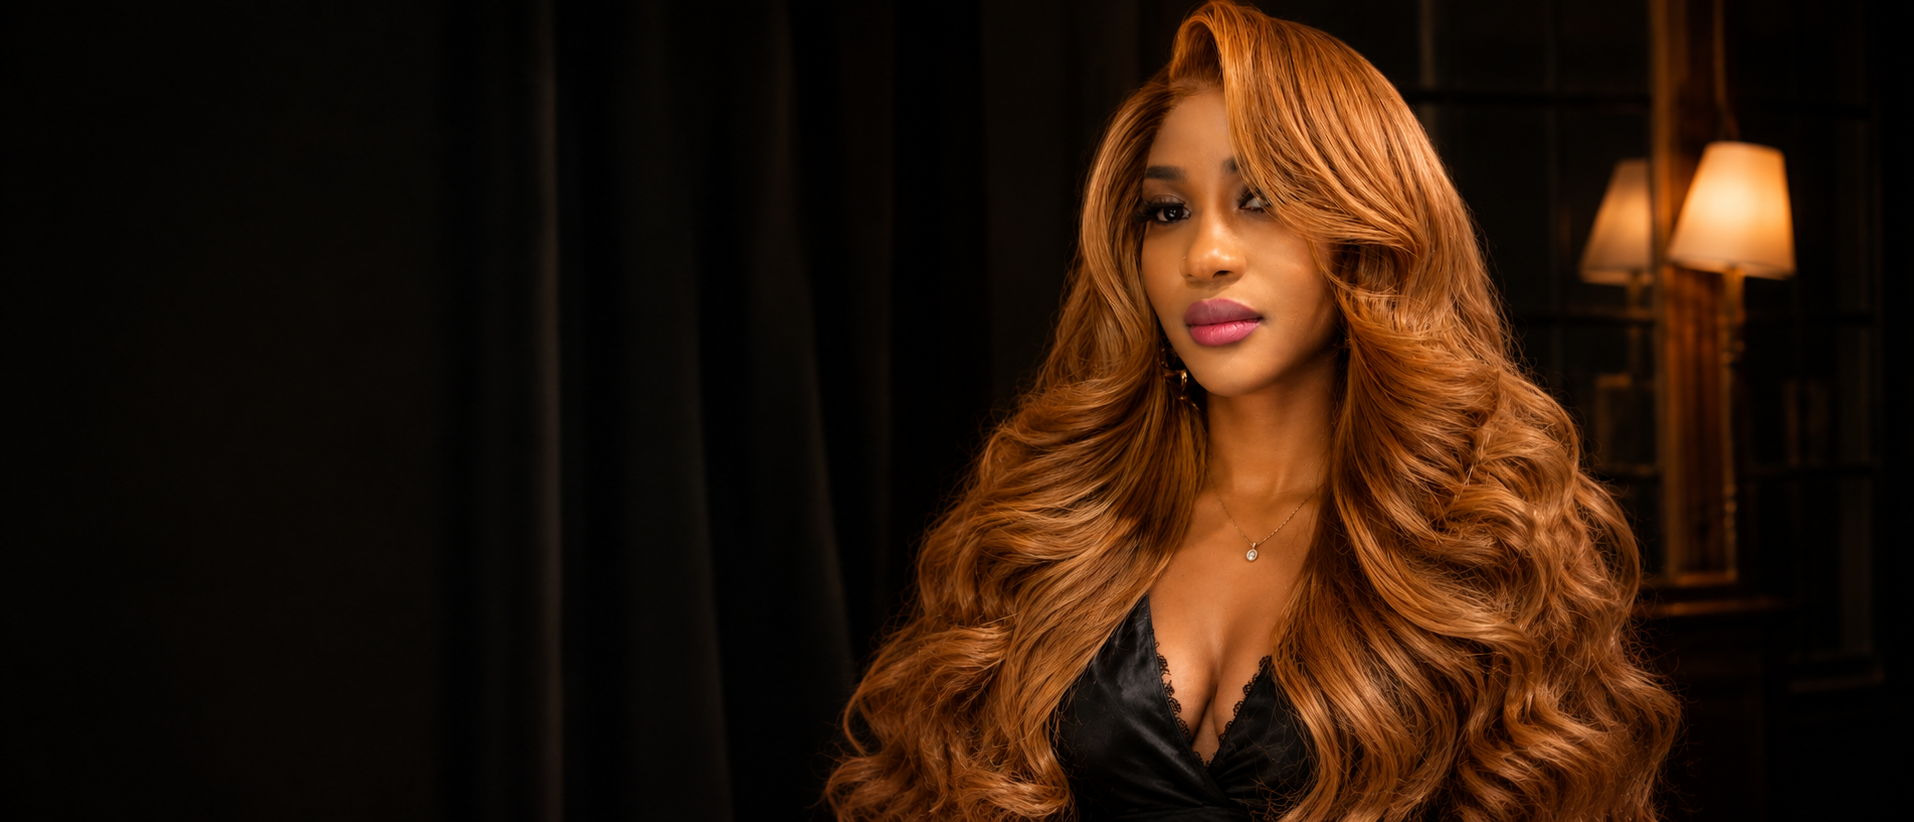
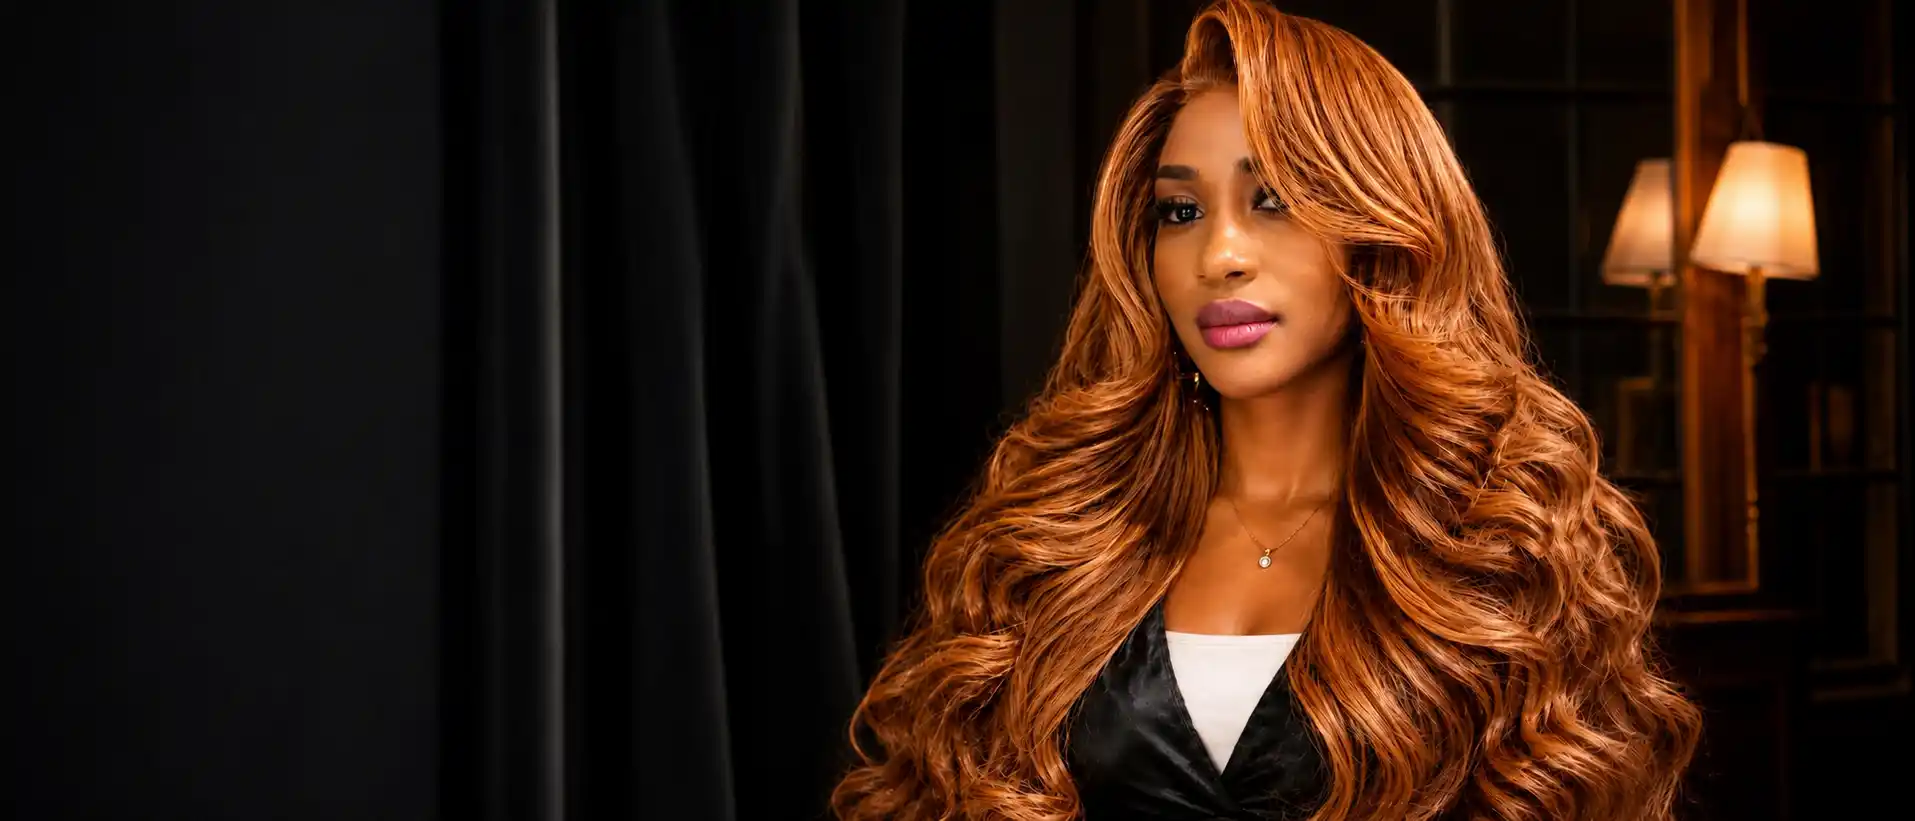
range

diff --git a/assets/css/shop.css b/assets/css/shop.css
@@ -1060,3 +1060,33 @@
 .product-modal__add-to-cart {
   flex: 1;
 }
+
+.hero__scroll-btn {
+  display: flex;
+  align-items: center;
+  justify-content: center;
+  width: 44px;
+  height: 44px;
+  margin-top: var(--space-md);
+  border: 1px solid var(--color-gold);
+  border-radius: 50%;
+  color: var(--color-gold);
+  background: transparent;
+  cursor: pointer;
+  animation: bounce-down 1.8s ease-in-out infinite;
+}
+
+.hero__scroll-btn:hover {
+  background: var(--color-gold);
+  color: #1a1a1a;
+}
+
+.hero__scroll-icon {
+  width: 20px;
+  height: 20px;
+}
+
+@keyframes bounce-down {
+  0%, 100% { transform: translateY(0); }
+  50% { transform: translateY(8px); }
+}

diff --git a/shop.html b/shop.html
@@ -32,27 +32,6 @@
        (assets/css/home.css), only the copy changes.
        ========================================================= -->
   <main>
-    <section class="hero" aria-label="Shop hero">
-      <div class="hero__media">
-        <img class="hero__image" src="assets/images/herosectionimg.webp" alt="Woman wearing a Blegab luxury wig" />
-        <div class="hero__scrim"></div>
-      </div>
-
-      <div class="hero__inner container">
-        <div class="hero__content">
-          <p class="eyebrow-text">Shop</p>
-
-          <h1 class="hero__title">
-            <span class="hero__word">SHOP OUR</span>
-            <span class="hero__word hero__title-accent">LUXURY WIGS</span>
-          </h1>
-
-          <p class="hero__subtitle">
-            Premium quality, flawless style. Find the perfect look that defines you.
-          </p>
-        </div>
-      </div>
-    </section>
 
     <section class="breadcrumbs" aria-label="Breadcrumb">
       <div class="container">

diff --git a/assets/css/home.css b/assets/css/home.css
@@ -49,8 +49,19 @@
 }
 
 .hero__content {
-  max-width: 480px;
-  padding-block: var(--space-xl);
+  padding-top: 200px;
+}
+
+@media (min-width: 768px) {
+  .hero__content {
+    padding-top: 120px;
+  }
+}
+
+@media (min-width: 1024px) {
+  .hero__content {
+    padding-top: 10px;
+  }
 }
 
 .hero__title {

diff --git a/assets/js/shop.js b/assets/js/shop.js
@@ -546,17 +546,28 @@ function initPriceSlider() {
 
   var prices = [100, 200, 300, 400, 500, 600, 700, 800, 900, 1000];
 
+  // Stop slider touch from closing the panel
+  slider.addEventListener('touchstart', function (e) {
+    e.stopPropagation();
+  });
+
+  slider.addEventListener('touchmove', function (e) {
+    e.stopPropagation();
+  });
+
+  slider.addEventListener('touchend', function (e) {
+    e.stopPropagation();
+  });
+
   slider.addEventListener('input', function () {
     var step = parseInt(this.value);
     var price = prices[step - 1];
     priceLeft.textContent = '$' + price;
 
     if (step === 10) {
-      // At $1,000 — right side turns gold, left side mutes
       priceRight.classList.add('is-active');
       priceLeft.classList.add('is-muted');
     } else {
-      // Normal state — left side gold, right side muted
       priceRight.classList.remove('is-active');
       priceLeft.classList.remove('is-muted');
     }